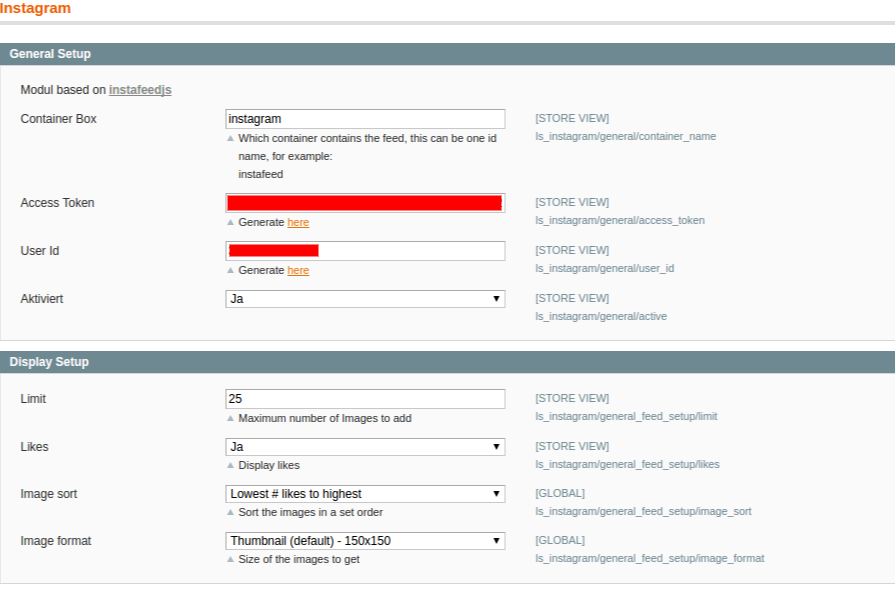
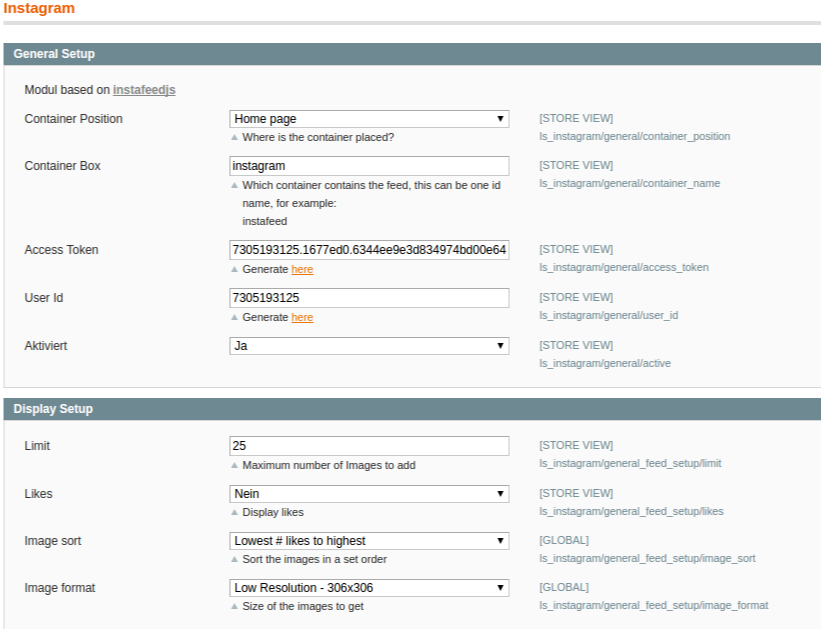
Add container position

diff --git a/src/app/code/local/Loewenstark/Instagram/Block/Instafeed.php b/src/app/code/local/Loewenstark/Instagram/Block/Instafeed.php
@@ -37,12 +37,19 @@ class Loewenstark_Instagram_Block_Instafeed extends Mage_Core_Block_Template {
     }
 
     /*
+     * Get container position
+     */
+
+    public function getContainerPosition() {
+        return Mage::getStoreConfig('ls_instagram/general/container_position');
+    }
+
+    /*
      * Get image format
      */
 
     public function getImageFormat() {
-        $image_format = Mage::getStoreConfig('ls_instagram/general_feed_setup/image_format');
-        return $image_format;
+        return Mage::getStoreConfig('ls_instagram/general_feed_setup/image_format');
     }
 
     /*
@@ -50,8 +57,7 @@ class Loewenstark_Instagram_Block_Instafeed extends Mage_Core_Block_Template {
      */
 
     public function getImageSort() {
-        $image_sort = Mage::getStoreConfig('ls_instagram/general_feed_setup/image_sort');
-        return $image_sort;
+        return Mage::getStoreConfig('ls_instagram/general_feed_setup/image_sort');
     }
 
     /*

diff --git a/src/app/code/local/Loewenstark/Instagram/Model/System/Config/Source/Position.php b/src/app/code/local/Loewenstark/Instagram/Model/System/Config/Source/Position.php
@@ -1,0 +1,16 @@
+<?php
+
+class Loewenstark_Instagram_Model_System_Config_Source_Position {
+    /*
+     * Add container position to Instagram Feed setup
+     */
+
+    public function toOptionArray() {
+        return [
+            ['value' => 'index', 'label' => __('Home page')],
+            ['value' => 'category', 'label' => __('Category page')],
+            ['value' => 'product', 'label' => __('Product page')]
+        ];
+    }
+
+}

diff --git a/README.md b/README.md
@@ -8,16 +8,7 @@ Installation Instructions
 1. Install the extension via GitHub, and deploy with modman.
 2. Clear the cache, logout from the admin panel and then login again.
 3. Change the config in System -> Configuration -> Loewenstark -> Instagram
-4. Add container with ID in DOM (ID Name in Setup!)
-
-For example:
-
-```
-<div id="instagram"></div>
-```
-
-5. You can style the template individually with css / direct im template instafeed.phtml by variable 'template'
-
+4. You can style the template individually with css / direct im template instafeed.phtml by variable 'template' (Position in homepage / categorypage / productpage)
 
 Example setup:
 
